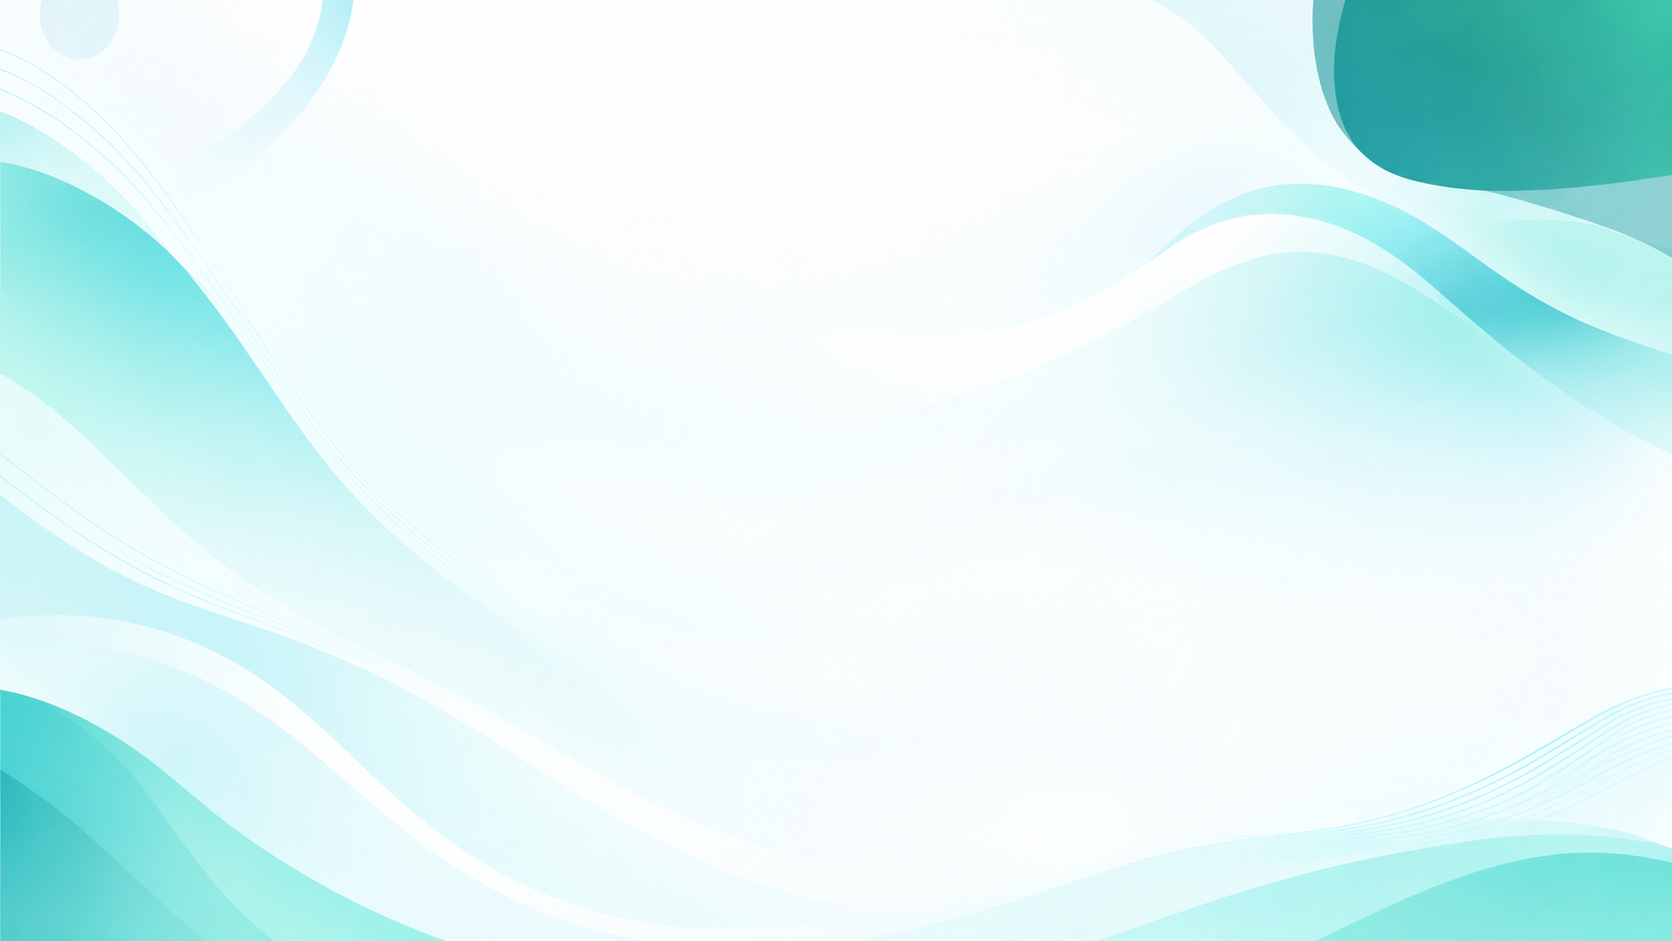
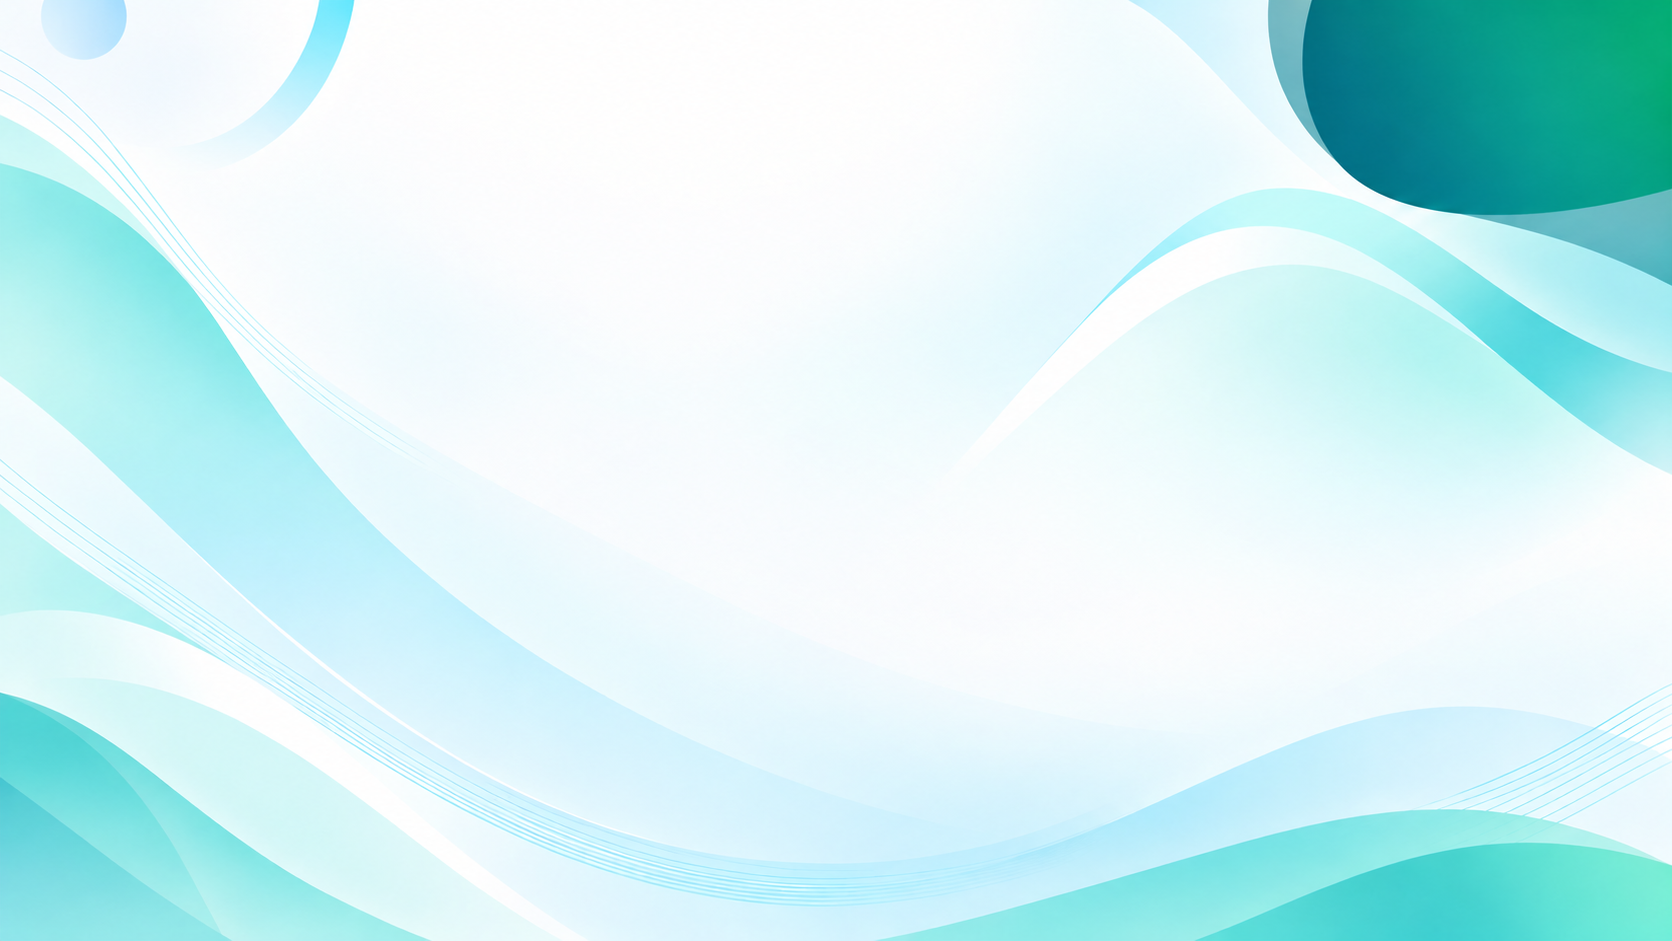
changes

diff --git a/frontend/src/features/display/components/DoctorCard.jsx b/frontend/src/features/display/components/DoctorCard.jsx
@@ -1,5 +1,45 @@
 import React from 'react';
-import { Clock } from 'lucide-react';
+
+/**
+ * ClinicWallClock — Option 2: Clinic wall clock with 12-hour tick marks and hands set to 9:00.
+ */
+const ClinicWallClock = ({ className, style }) => (
+  <svg
+    viewBox="0 0 24 24"
+    className={className}
+    style={style}
+    fill="none"
+    stroke="currentColor"
+    strokeLinecap="round"
+    strokeLinejoin="round"
+  >
+    {/* Outer Rim */}
+    <circle cx="12" cy="12" r="9.5" strokeWidth="2.2" />
+
+    {/* Cardinal Hour Ticks (12, 3, 6, 9) */}
+    <line x1="12" y1="2.5" x2="12" y2="5" strokeWidth="2.2" />
+    <line x1="21.5" y1="12" x2="19" y2="12" strokeWidth="2.2" />
+    <line x1="12" y1="21.5" x2="12" y2="19" strokeWidth="2.2" />
+    <line x1="2.5" y1="12" x2="5" y2="12" strokeWidth="2.2" />
+
+    {/* Intermediate Hour Ticks */}
+    <line x1="16.75" y1="3.77" x2="15.8" y2="5.4" strokeWidth="1.5" />
+    <line x1="20.23" y1="7.25" x2="18.6" y2="8.2" strokeWidth="1.5" />
+    <line x1="20.23" y1="16.75" x2="18.6" y2="15.8" strokeWidth="1.5" />
+    <line x1="16.75" y1="20.23" x2="15.8" y2="18.6" strokeWidth="1.5" />
+    <line x1="7.25" y1="20.23" x2="8.2" y2="18.6" strokeWidth="1.5" />
+    <line x1="3.77" y1="16.75" x2="5.4" y2="15.8" strokeWidth="1.5" />
+    <line x1="3.77" y1="7.25" x2="5.4" y2="8.2" strokeWidth="1.5" />
+    <line x1="7.25" y1="3.77" x2="8.2" y2="5.4" strokeWidth="1.5" />
+
+    {/* Clock Hands at 9:00 */}
+    <line x1="12" y1="12" x2="12" y2="6.5" strokeWidth="2.4" />
+    <line x1="12" y1="12" x2="7.2" y2="12" strokeWidth="2.6" />
+
+    {/* Center Hub Pin */}
+    <circle cx="12" cy="12" r="1.4" fill="currentColor" stroke="none" />
+  </svg>
+);
 
 const DAYS = [
   { label: 'Mon', key: 'MON' },
@@ -51,98 +91,102 @@ const DoctorCard = ({ doc, branch, location, theme }) => {
 
   return (
     <div
-      className="relative flex items-center bg-white rounded-2xl xl:rounded-3xl border-2 shadow-md overflow-hidden w-full transition-all"
-      style={{ borderColor: accent }}
+      className="relative flex items-center bg-gradient-to-r from-white/55 via-white/40 to-white/35 backdrop-blur-lg rounded-2xl xl:rounded-3xl border-2 border-white/80 shadow-[0_8px_32px_0_rgba(0,89,68,0.14),inset_0_1px_2px_rgba(255,255,255,0.95)] overflow-hidden w-full transition-all"
     >
       {/* Left solid accent color bar */}
       <div
-        className="w-5 md:w-6 xl:w-7 2xl:w-8 self-stretch flex-shrink-0"
+        className="w-3 md:w-3.5 xl:w-4 2xl:w-5 self-stretch flex-shrink-0 opacity-80 backdrop-blur-md"
         style={{ backgroundColor: accent }}
       />
 
-      {/* Card Content: 3 horizontal columns (Left: Doctor Info, Center: Time Range, Right: Days Badges) */}
-      <div className="flex items-center justify-between flex-1 min-w-0 px-5 xl:px-7 py-2 xl:py-2.5 gap-4 xl:gap-8">
-        {/* Left Column: Photo + Name + Designation */}
-        <div className="flex items-center gap-6 xl:gap-8 min-w-0">
-          {/* Doctor Photo avatar frame (enlarged for prominent visibility) */}
+      {/* Card Content: Avatar on left, (Name + Clock/Time in Middle + Days on Right) in single horizontal line */}
+      <div className="flex items-center flex-1 min-w-0 px-3 md:px-4 xl:px-5 2xl:px-7 py-2 xl:py-2.5 gap-3 md:gap-4 xl:gap-5">
+        {/* Doctor Photo avatar frame */}
+        <div
+          className="w-26 h-26 md:w-30 md:h-30 xl:w-34 xl:h-34 2xl:w-42 2xl:h-42 rounded-full overflow-hidden bg-white/50 backdrop-blur-md shadow-md flex-shrink-0 border-3 xl:border-4"
+          style={{ borderColor: accent }}
+        >
+          {doc.photo_url ? (
+            <img
+              src={getFullPhotoUrl(doc.photo_url)}
+              alt=""
+              className="w-full h-full object-cover bg-white rounded-full"
+              onError={(e) => {
+                e.currentTarget.style.display = 'none';
+                if (e.currentTarget.nextElementSibling) {
+                  e.currentTarget.nextElementSibling.style.display = 'flex';
+                }
+              }}
+            />
+          ) : null}
           <div
-            className="w-32 h-32 md:w-36 md:h-36 xl:w-40 xl:h-40 2xl:w-44 2xl:h-44 rounded-full overflow-hidden bg-white shadow-md flex-shrink-0 border-4 xl:border-[4.5px]"
-            style={{ borderColor: accent }}
+            className="w-full h-full items-center justify-center bg-teal-50/50 backdrop-blur-sm"
+            style={{ display: doc.photo_url ? 'none' : 'flex' }}
           >
-            {doc.photo_url ? (
-              <img
-                src={getFullPhotoUrl(doc.photo_url)}
-                alt=""
-                className="w-full h-full object-cover bg-white rounded-full"
-                onError={(e) => {
-                  e.currentTarget.style.display = 'none';
-                  if (e.currentTarget.nextElementSibling) {
-                    e.currentTarget.nextElementSibling.style.display = 'flex';
-                  }
-                }}
-              />
-            ) : null}
-            <div
-              className="w-full h-full items-center justify-center bg-teal-50"
-              style={{ display: doc.photo_url ? 'none' : 'flex' }}
-            >
-              <span className="font-bold text-5xl xl:text-6xl 2xl:text-7xl" style={{ color: accent }}>
-                {doc.name ? doc.name.charAt(0) : 'D'}
-              </span>
-            </div>
-          </div>
-
-          {/* Doctor Info */}
-          <div className="flex flex-col min-w-0 justify-center">
-            <h3
-              className="text-3xl xl:text-4xl font-extrabold tracking-normal truncate leading-tight"
-              style={{ color: bgPrimary, fontFamily: '"Times New Roman", Times, serif' }}
-            >
-              {formattedName}
-            </h3>
-            <div className="inline-flex items-center px-3.5 py-0.5 rounded-full border border-teal-300 bg-teal-50/90 shadow-xs mt-1.5 w-fit">
-              <span
-                className="text-sm xl:text-base font-bold uppercase tracking-wider"
-                style={{ color: accent, fontFamily: '"Times New Roman", Times, serif' }}
-              >
-                {doc.designation}
-              </span>
-            </div>
+            <span className="font-bold text-5xl xl:text-6xl 2xl:text-7xl" style={{ color: accent }}>
+              {doc.name ? doc.name.charAt(0) : 'D'}
+            </span>
           </div>
         </div>
 
-        {/* Center Column: Timing with Clock Icon */}
-        <div className="flex items-center gap-3 xl:gap-3.5 px-3 xl:px-6 shrink-0">
-          <Clock className="w-6 h-6 xl:w-7 xl:h-7 2xl:w-8 2xl:h-8 shrink-0" style={{ color: accent }} />
-          <span
-            className="text-lg xl:text-2xl 2xl:text-3xl font-extrabold tracking-wide whitespace-nowrap"
-            style={{ color: bgPrimary }}
-          >
-            {doc.timing || '09:00 AM - 05:00 PM'}
-          </span>
-        </div>
-
-        {/* Right Column: Days Badges */}
-        <div className="flex items-center justify-end gap-2 xl:gap-2.5 shrink-0">
-          {DAYS.map((dayItem) => {
-            const isActive = branchDays.some(
-              (d) => String(d).trim().toUpperCase() === dayItem.key || String(d).trim().toLowerCase() === dayItem.label.toLowerCase()
-            );
-
-            return (
-              <span
-                key={dayItem.key}
-                className={`w-14 xl:w-16 2xl:w-[70px] py-1.5 xl:py-2 text-center rounded-lg xl:rounded-xl text-sm xl:text-base 2xl:text-lg font-bold tracking-wide transition-all shadow-sm ${
-                  isActive
-                    ? 'text-white shadow'
-                    : 'bg-white text-slate-400 border xl:border-2 border-slate-300 font-semibold'
-                }`}
-                style={isActive ? { backgroundColor: accent, borderColor: accent } : {}}
+        {/* Doctor Details + Timing + Days Container */}
+        <div className="flex flex-col justify-center flex-1 min-w-0">
+          {/* PRIMARY ROW: Name on Left, Clock & Time in Middle, Days Badges on Right */}
+          <div className="flex items-center justify-between w-full gap-3 xl:gap-5">
+            {/* 1. Doctor Name (Left) */}
+            <div className="flex items-center min-w-0">
+              <h3
+                className="text-2xl md:text-3xl xl:text-3xl 2xl:text-4xl font-extrabold tracking-normal whitespace-nowrap leading-tight shrink-0"
+                style={{ color: bgPrimary, fontFamily: '"Times New Roman", Times, serif' }}
               >
-                {dayItem.label}
+                {formattedName}
+              </h3>
+            </div>
+
+            {/* 2. Clock & Consultation Time (In the Middle) */}
+            <div className="flex items-center justify-center gap-2.5 xl:gap-3.5 px-2 xl:px-4 shrink-0 mx-auto">
+              <ClinicWallClock className="w-6 h-6 md:w-7 md:h-7 xl:w-8 xl:h-8 2xl:w-9 2xl:h-9 shrink-0" style={{ color: accent }} />
+              <span
+                className="text-xl md:text-2xl xl:text-3xl 2xl:text-4xl font-extrabold tracking-wide whitespace-nowrap"
+                style={{ color: bgPrimary }}
+              >
+                {doc.timing || '09:00 AM - 05:00 PM'}
               </span>
-            );
-          })}
+            </div>
+
+            {/* 3. Days Badges (Right) */}
+            <div className="flex items-center justify-end gap-1.5 md:gap-2 xl:gap-2.5 shrink-0 ml-auto">
+              {DAYS.map((dayItem) => {
+                const isActive = branchDays.some(
+                  (d) => String(d).trim().toUpperCase() === dayItem.key || String(d).trim().toLowerCase() === dayItem.label.toLowerCase()
+                );
+
+                return (
+                  <span
+                    key={dayItem.key}
+                    className={`w-14 md:w-[60px] xl:w-[66px] 2xl:w-[76px] py-1.5 xl:py-2 text-center rounded-xl xl:rounded-2xl text-lg xl:text-xl 2xl:text-2xl font-extrabold tracking-wide transition-all ${
+                      isActive
+                        ? 'text-white shadow-md border'
+                        : 'bg-white/35 backdrop-blur-sm text-slate-700 border xl:border-2 border-white/75 shadow-xs font-semibold'
+                    }`}
+                    style={isActive ? { backgroundColor: accent, borderColor: accent } : {}}
+                  >
+                    {dayItem.label}
+                  </span>
+                );
+              })}
+            </div>
+          </div>
+
+          {/* SUB ROW: Designation Pill directly below the Doctor Name */}
+          <div className="inline-flex items-center px-4.5 xl:px-5.5 py-1 xl:py-1.5 rounded-full border xl:border-2 border-teal-400/60 bg-white/55 backdrop-blur-sm shadow-xs mt-2 xl:mt-2.5 w-fit">
+            <span
+              className="text-base xl:text-lg 2xl:text-xl font-bold uppercase tracking-wider whitespace-nowrap"
+              style={{ color: accent, fontFamily: '"Times New Roman", Times, serif' }}
+            >
+              {doc.designation}
+            </span>
+          </div>
         </div>
       </div>
     </div>

diff --git a/frontend/src/features/display/components/DisplayHeader.jsx b/frontend/src/features/display/components/DisplayHeader.jsx
@@ -10,19 +10,36 @@ import LiveClock from './LiveClock';
  * @param {{ theme?: any }} props
  */
 const DisplayHeader = ({ theme }) => {
-  return (
-    <header className="flex items-center justify-between px-8 xl:px-12 py-2 z-10 shrink-0 min-h-[110px] xl:min-h-[130px] relative">
-      {/* Left spacer for symmetry with top-right clock */}
-      <div className="w-[8%] hidden xl:block" />
+  const hasEmblemAndName = Boolean(theme?.emblem && theme?.headerName);
 
-      {/* Center: Branch logo — natural colors for light theme */}
-      <div className="flex-1 flex items-center justify-center px-4">
-        <img
-          src={theme.logo}
-          alt="Branch Logo"
-          className="w-full max-w-[850px] xl:max-w-[1000px] max-h-[115px] xl:max-h-[140px] object-contain"
-        />
+  return (
+    <header className="w-full flex items-center justify-between px-6 xl:px-10 py-1.5 z-10 shrink-0 min-h-[135px] xl:min-h-[160px] 2xl:min-h-[175px] relative">
+      {/* Center: Hospital Branding Lockup — shifted clear of the green corner wave and centered with the department banner */}
+      <div className="absolute left-1/2 top-1/2 -translate-x-1/2 -translate-y-1/2 -ml-18 md:-ml-24 xl:-ml-32 2xl:-ml-38 pt-2.5 xl:pt-3.5 flex items-center justify-center gap-4 xl:gap-5.5 2xl:gap-6 pointer-events-none">
+        {hasEmblemAndName ? (
+          <>
+            <img
+              src={theme.emblem}
+              alt="Hospital Emblem"
+              className="h-[110px] xl:h-[132px] 2xl:h-[150px] w-auto object-contain drop-shadow-sm shrink-0"
+            />
+            <img
+              src={theme.headerName}
+              alt="Hospital Header Name"
+              className="w-auto max-w-[950px] xl:max-w-[1250px] 2xl:max-w-[1450px] max-h-[130px] xl:max-h-[152px] 2xl:max-h-[168px] object-contain shrink-0"
+            />
+          </>
+        ) : (
+          <img
+            src={theme?.logo}
+            alt="Branch Logo"
+            className="w-auto max-w-[1050px] xl:max-w-[1300px] 2xl:max-w-[1500px] max-h-[130px] xl:max-h-[155px] 2xl:max-h-[170px] object-contain shrink-0"
+          />
+        )}
       </div>
+
+      {/* Left spacer for flex symmetry */}
+      <div className="w-6 xl:w-10 shrink-0 pointer-events-none" />
 
       {/* Right: Live clock */}
       <LiveClock />

diff --git a/frontend/src/features/display/components/DepartmentHeader.jsx b/frontend/src/features/display/components/DepartmentHeader.jsx
@@ -12,14 +12,39 @@ const DepartmentHeader = ({ department, theme }) => {
   const accent = theme?.accentColor ?? '#005944';
 
   return (
-    <div className="text-center mt-1 mb-3 xl:mb-3.5 w-full flex items-center justify-center">
+    <div className="text-center mt-1 mb-3 xl:mb-3.5 w-auto max-w-fit mx-auto flex items-center justify-center gap-3 xl:gap-5 -translate-x-4 md:-translate-x-6 xl:-translate-x-8 2xl:-translate-x-10">
+      {/* Left decorative line ending with solid dot */}
+      <div className="w-20 sm:w-28 md:w-36 xl:w-48 2xl:w-56 shrink-0 flex items-center">
+        <div
+          className="w-3 h-3 xl:w-3.5 xl:h-3.5 rounded-full shrink-0 mr-2 shadow-sm"
+          style={{ backgroundColor: accent }}
+        />
+        <div
+          className="w-full h-[2.5px] xl:h-[3px] rounded-full shadow-xs"
+          style={{ backgroundColor: accent }}
+        />
+      </div>
+
+      {/* Center Department Glass Pill */}
       <div
-        className="px-10 md:px-12 xl:px-14 py-2 xl:py-2.5 rounded-xl xl:rounded-2xl shadow-md inline-flex items-center justify-center transition-all"
-        style={{ backgroundColor: accent }}
+        className="px-10 md:px-12 xl:px-14 py-2 xl:py-2.5 rounded-xl xl:rounded-2xl shadow-[0_8px_24px_rgba(0,89,68,0.25),inset_0_1px_1px_rgba(255,255,255,0.4)] border border-white/30 backdrop-blur-md inline-flex items-center justify-center transition-all shrink-0"
+        style={{ backgroundColor: `${accent}e0` }}
       >
-        <h3 className="text-xl md:text-2xl xl:text-3xl font-extrabold tracking-wide text-white drop-shadow-sm">
+        <h3 className="text-xl md:text-2xl xl:text-3xl font-extrabold tracking-wide text-white drop-shadow-sm whitespace-nowrap">
           Department of {department}
         </h3>
+      </div>
+
+      {/* Right decorative line ending with solid dot */}
+      <div className="w-20 sm:w-28 md:w-36 xl:w-48 2xl:w-56 shrink-0 flex items-center">
+        <div
+          className="w-full h-[2.5px] xl:h-[3px] rounded-full shadow-xs"
+          style={{ backgroundColor: accent }}
+        />
+        <div
+          className="w-3 h-3 xl:w-3.5 xl:h-3.5 rounded-full shrink-0 ml-2 shadow-sm"
+          style={{ backgroundColor: accent }}
+        />
       </div>
     </div>
   );

diff --git a/frontend/src/features/display/components/LiveClock.jsx b/frontend/src/features/display/components/LiveClock.jsx
@@ -27,12 +27,12 @@ const LiveClock = () => {
   });
 
   return (
-    <div className="w-[22%] text-right flex flex-col items-end text-white justify-center pr-6 pt-1 select-none">
-      <div className="flex items-center gap-2 text-white/95 text-base xl:text-lg font-medium tracking-wide drop-shadow-sm">
-        <Calendar className="w-5 h-5 text-white shrink-0" />
+    <div className="w-auto min-w-[260px] xl:min-w-[300px] 2xl:min-w-[340px] text-center flex flex-col items-center justify-center text-white self-center my-auto translate-x-4 xl:translate-x-6 pr-0 xl:pr-1 select-none shrink-0">
+      <div className="flex items-center justify-center gap-2.5 text-white text-2xl xl:text-[1.7rem] 2xl:text-3xl font-bold tracking-wide drop-shadow-sm">
+        <Calendar className="w-6.5 h-6.5 xl:w-7.5 xl:h-7.5 2xl:w-8.5 2xl:h-8.5 text-white shrink-0" />
         <span>{dateString}</span>
       </div>
-      <p className="text-4xl xl:text-5xl font-bold tracking-tight text-white mt-0.5 drop-shadow-sm">
+      <p className="text-5xl xl:text-6xl 2xl:text-7xl font-extrabold tracking-tight text-white mt-0.5 drop-shadow-sm text-center">
         {timeString}
       </p>
     </div>

diff --git a/frontend/src/features/display/pages/DisplayScreen.jsx b/frontend/src/features/display/pages/DisplayScreen.jsx
@@ -131,7 +131,7 @@ const DisplayScreen = () => {
       {/* Background image (only on content pages) */}
       {isContentPage && (
         <div
-          className="absolute inset-0 z-0 bg-cover bg-center bg-no-repeat"
+          className="absolute inset-0 z-0 bg-cover bg-top bg-no-repeat"
           style={{ backgroundImage: `url(${bgImg})` }}
         />
       )}
@@ -139,8 +139,8 @@ const DisplayScreen = () => {
       {/* Header — uses config.theme.logo, no branch flags */}
       {isContentPage && <DisplayHeader theme={config.theme} />}
 
-      {/* Main content */}
-      <main className={`flex-1 flex flex-col z-10 overflow-hidden min-h-0 ${isContentPage ? 'px-8 xl:px-14 py-2 xl:py-4' : ''}`}>
+      {/* Main content — wider horizontal footprint so doctor card grid has ample length */}
+      <main className={`flex-1 flex flex-col z-10 overflow-hidden min-h-0 ${isContentPage ? 'px-1.5 md:px-2 xl:px-2.5 2xl:px-5 py-1.5 xl:py-3' : ''}`}>
 
         {/* Video page */}
         {currentPage?.isVideo && (

diff --git a/frontend/src/features/display/config/branches/sscc.config.js b/frontend/src/features/display/config/branches/sscc.config.js
@@ -1,4 +1,6 @@
 import kssccLogo from '../../../../common/assets/ksscc-logo.png';
+import kssccEmblem from '../../../../common/assets/ksscc-emblem.png';
+import kssccText from '../../../../common/assets/ksscc-text.png';
 import api from '../../../../common/services/api';
 
 const formatSlug = (val) => {
@@ -39,6 +41,8 @@ export const ssccConfig = {
     textPrimary: '#ffffff',
     footerBg: '#017754',
     logo: kssccLogo,
+    emblem: kssccEmblem,
+    headerName: kssccText,
     footerNumbers: [
       { label: 'AMBULANCE', number: '0674-7111333 / 7440 070010' },
       { label: 'HELLO KIMS', number: '0674 2304400 / 7111000' },
